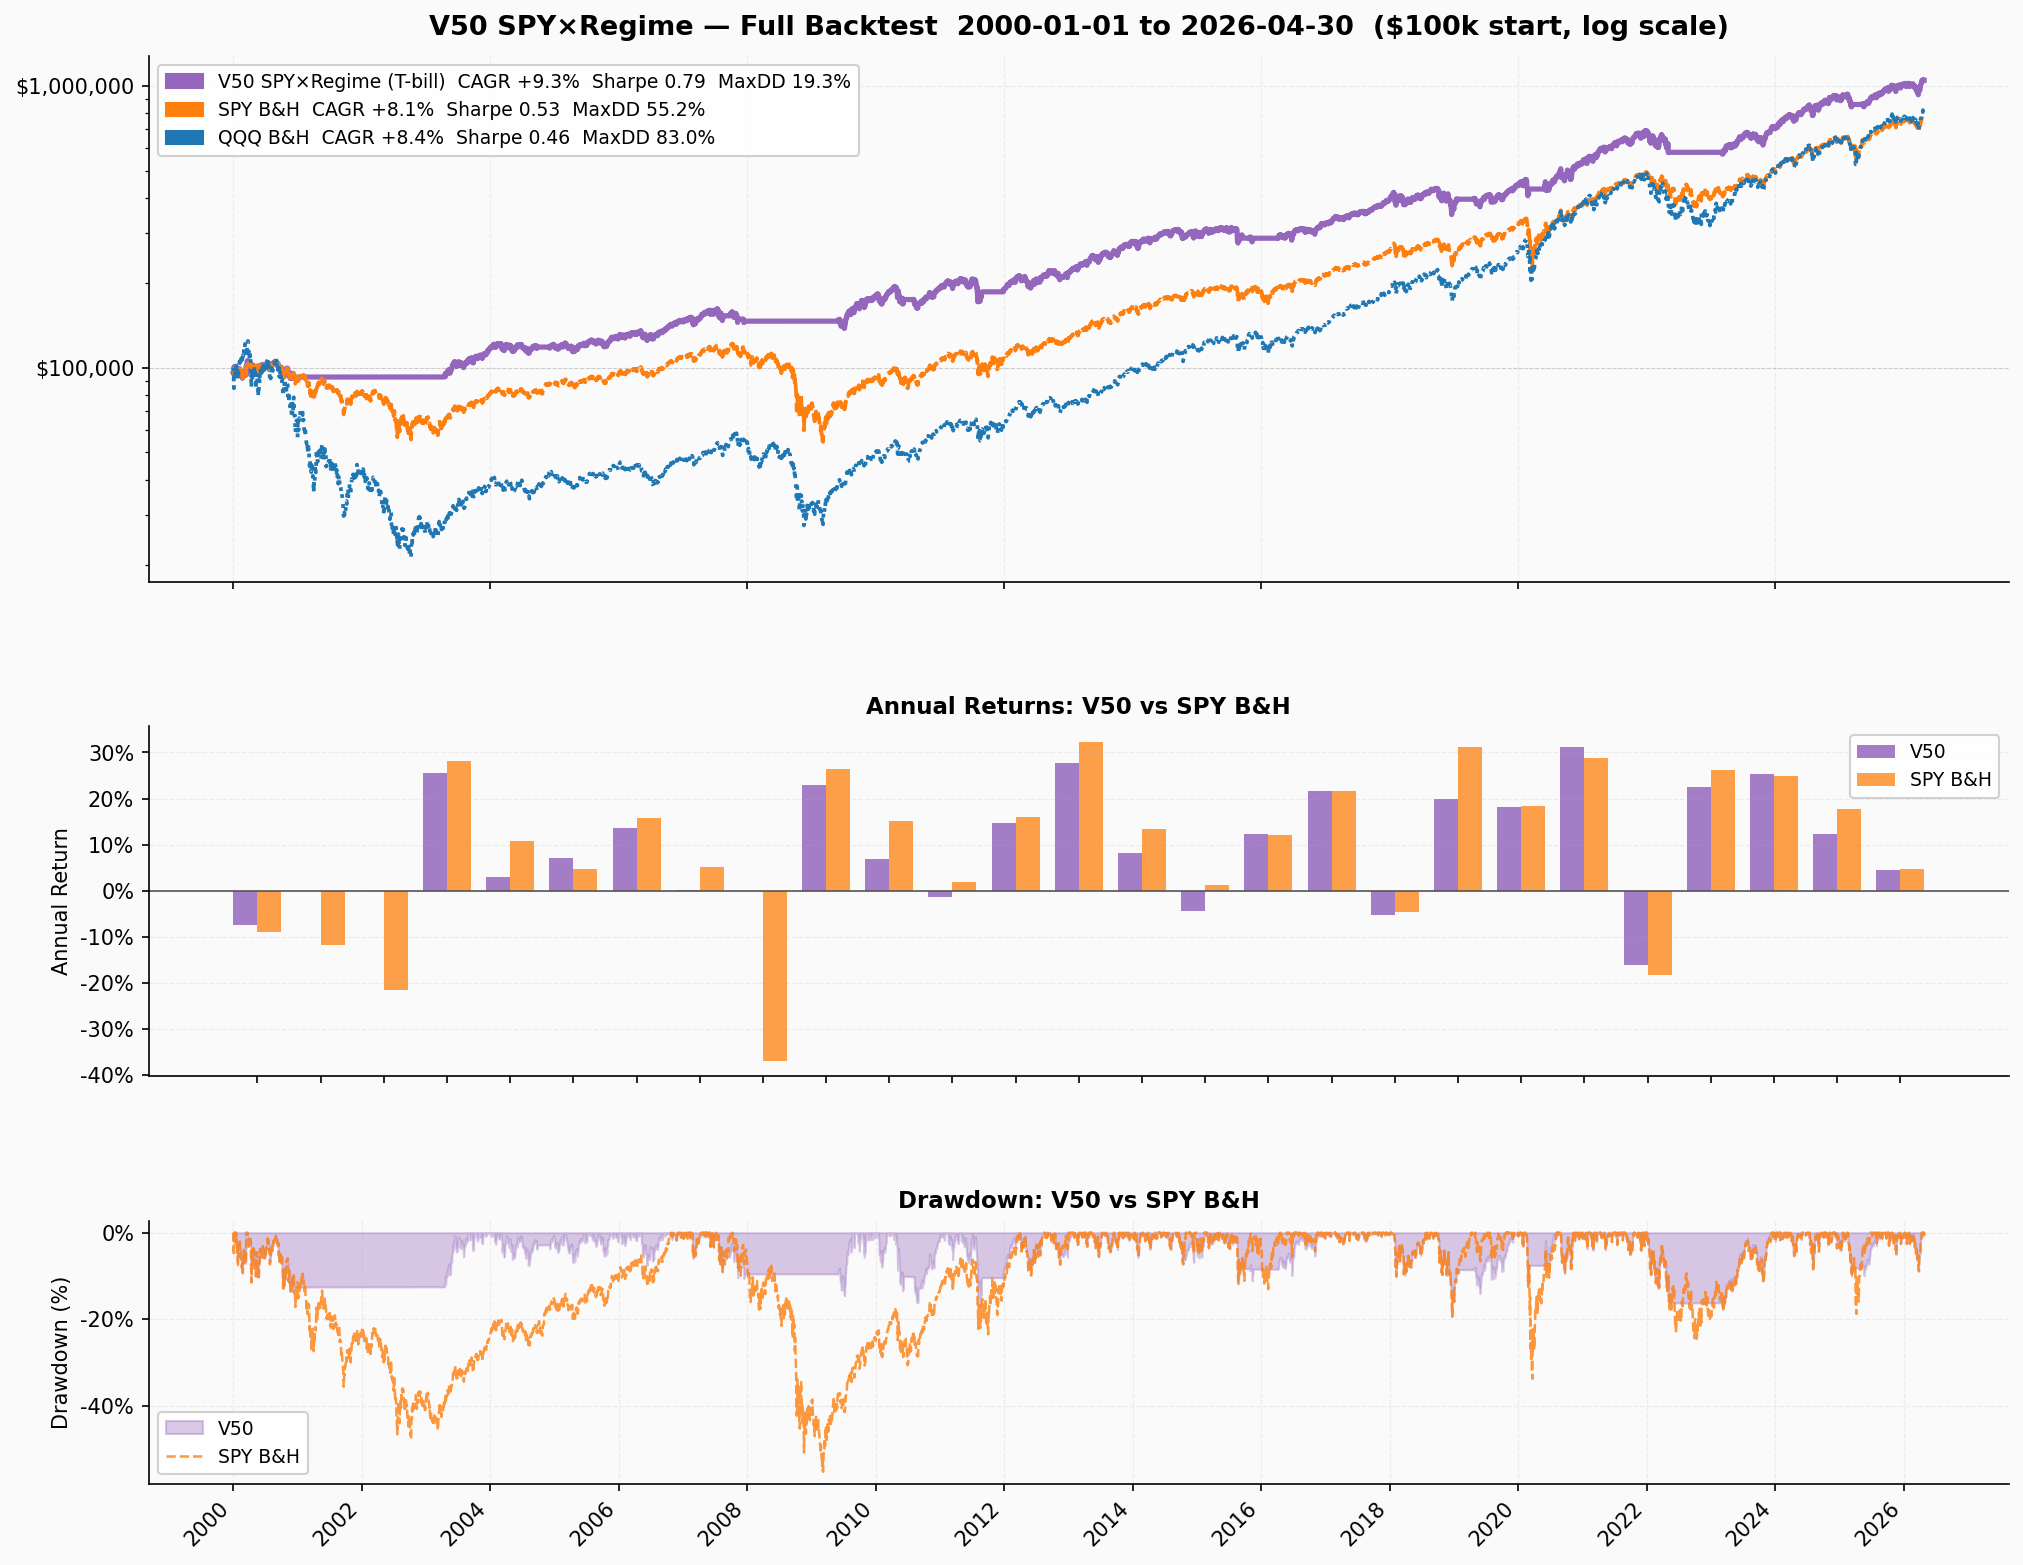
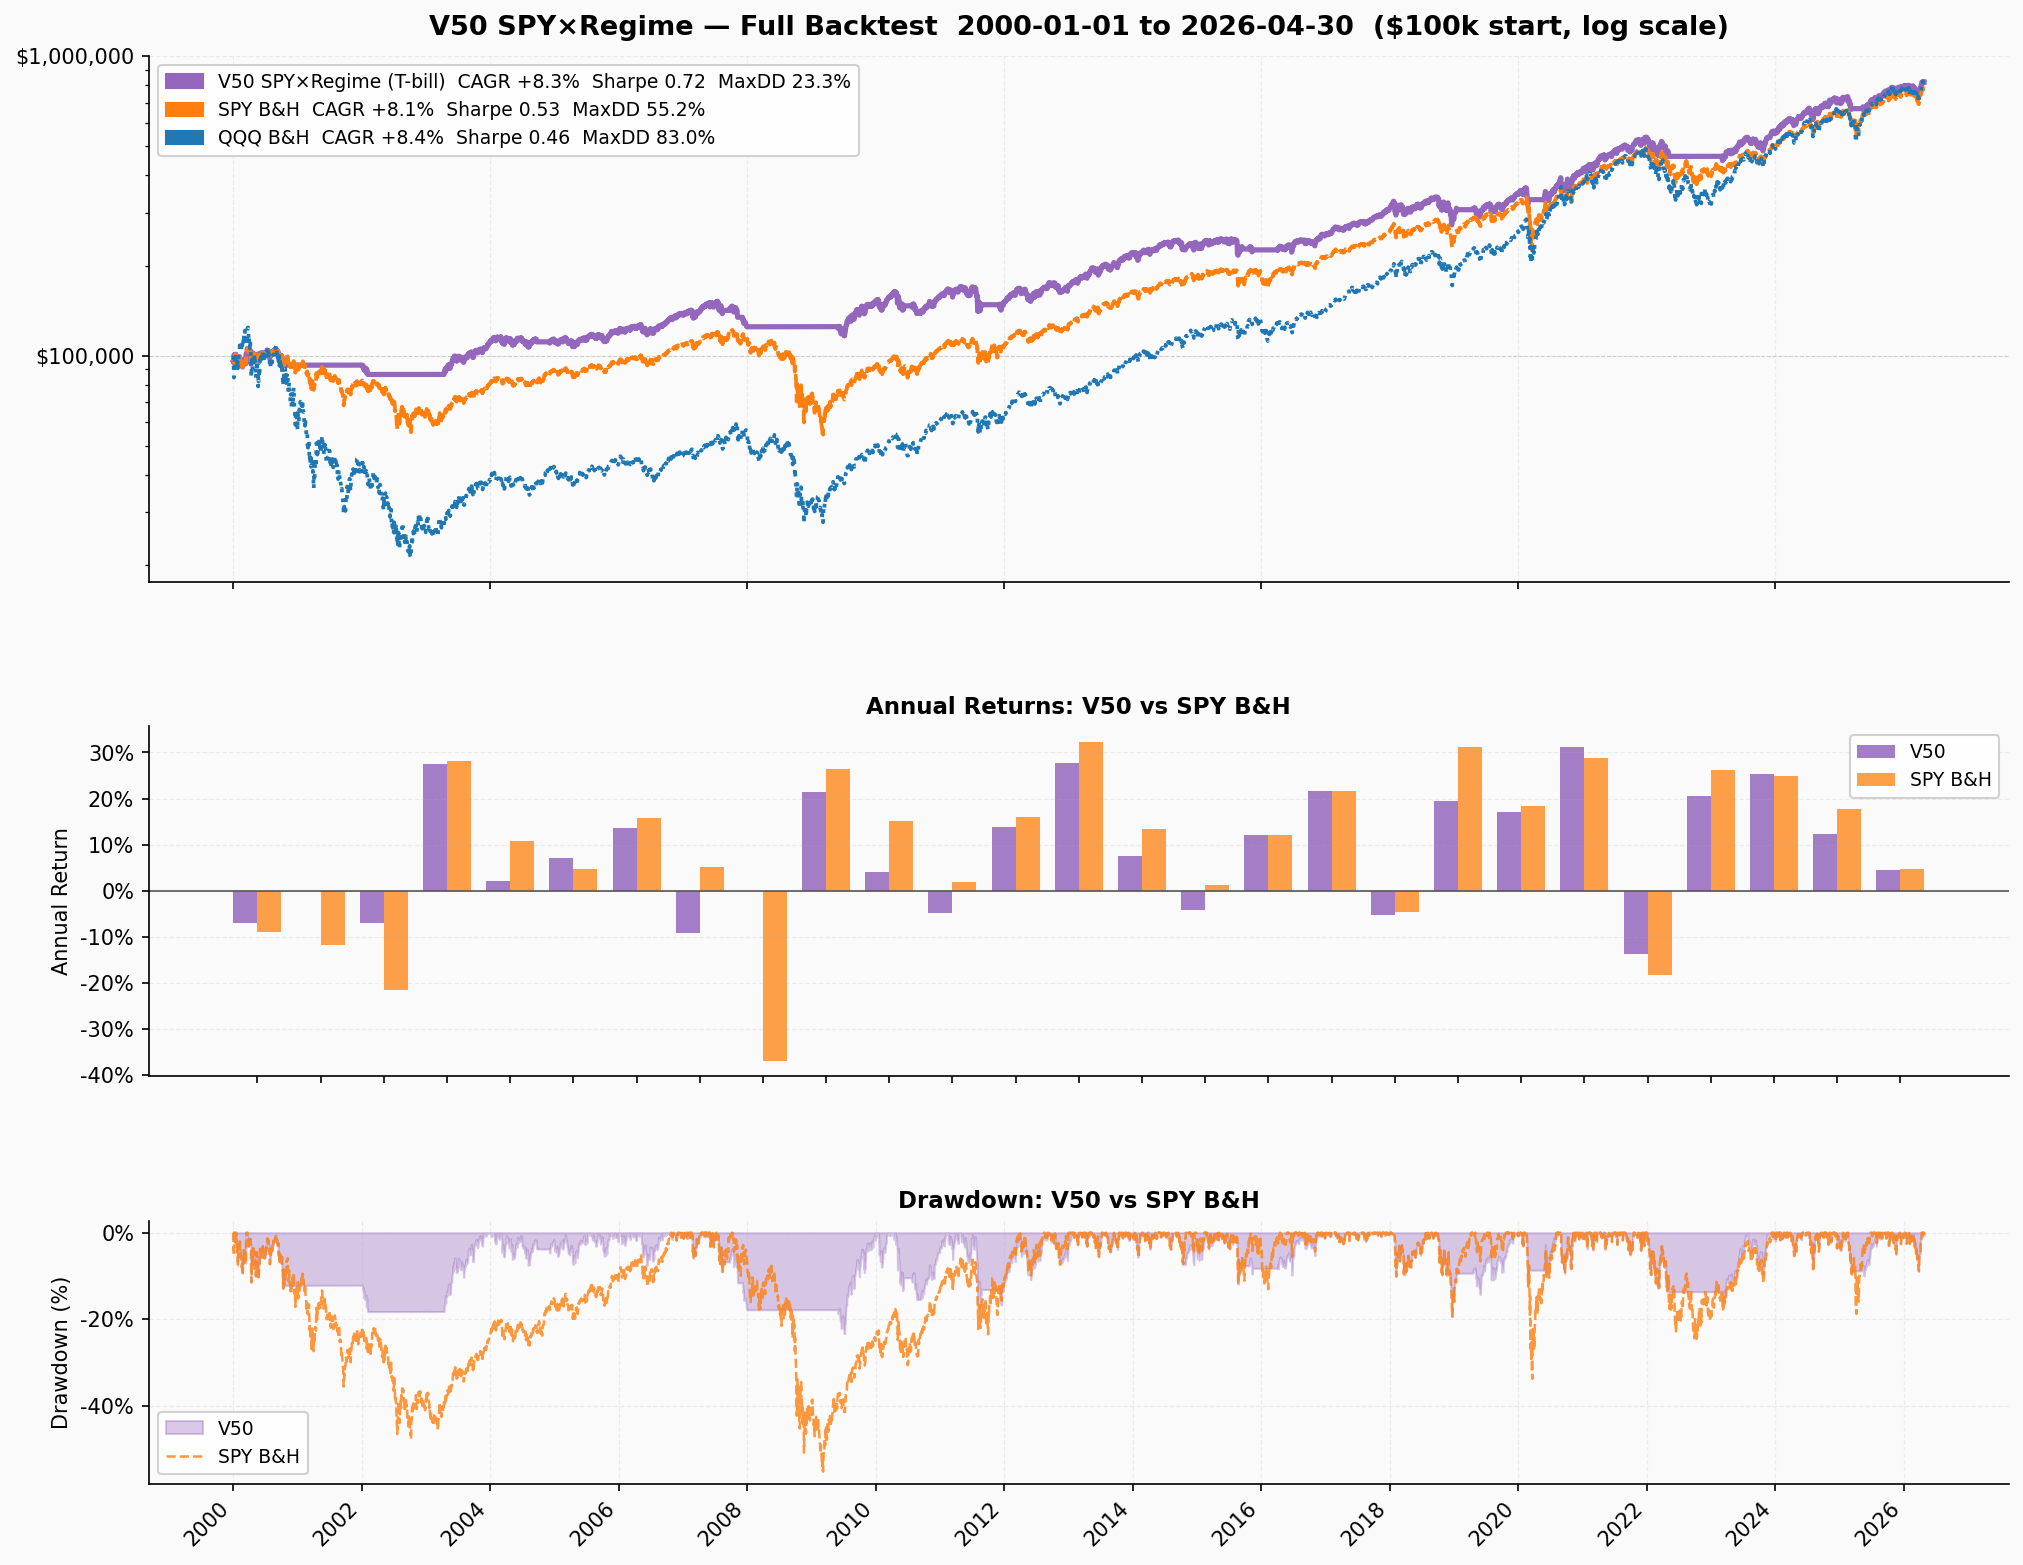
Sync docs from private repo @ cb9cc835e2283af6f49a8608487ea9dbc8acb0f6

diff --git a/alpha_summary.md b/alpha_summary.md
@@ -86,9 +86,11 @@ Same SPY regime gate, leveraged equity instrument when open, T-bills when closed
 
 ---
 
-## Current champion: V53b UPRO/SPY×Regime (VIX<17) — numbers to beat
+## V53b UPRO/SPY×Regime (VIX<17) — demoted (superseded by V51)
 
-**Promoted 2026-04-30. V50 remains the conservative option; R1_189/V39 on ice.**
+> **Superseded 2026-05-01.** See "Project Update — 2026-05-01" at the top for corrected figures. V53b numbers below used the pre-correction backtest (no swap-lag, shift-1 fill model). V51 is the current champion.
+
+**Promoted 2026-04-30, demoted 2026-05-01. V50 remains the conservative option; R1_189/V39 on ice.**
 
 **V53b = SPY regime gate + VIX-gated UPRO. No stock picking, no position sizing, no stops.**
 
@@ -119,7 +121,7 @@ When regime open: VIX < 17 → UPRO (3×), VIX ≥ 17 → SPY (1×). Regime clos
 
 **Why VIX<17 specifically:** Sweep of VIX thresholds 15–25 showed VIX<17 has the lowest MaxDD (29.2%) and best Calmar (0.59). VIX<15 has better Sharpe but much less time in UPRO. VIX<18+ starts catching choppy mid-range VIX regimes and MaxDD degrades.
 
-**Status:** Promoted to champion 2026-04-30.
+**Status:** Promoted to champion 2026-04-30. Demoted 2026-05-01 — swap-lag correction reveals VIX layer adds no value over V51.
 
 ---
 
@@ -176,17 +178,18 @@ V53b's VIX layer already handles the 2022 rates shock: VIX stayed ≥17 througho
 
 ---
 
-## Portfolio architecture (V53b — current champion)
+## Portfolio architecture (V51 — current champion)
 
 Single-strategy deployment on $100k capital:
 
 | State | Allocation | Instrument |
 |-------|-----------|------------|
-| Regime open + VIX < 17 | 100% equity | UPRO (3× S&P500) |
-| Regime open + VIX ≥ 17 | 100% equity | SPY (1× S&P500) |
+| Regime open | 100% equity | SSO (2× S&P500) |
 | Regime closed | 100% cash | T-bills (^IRX daily accrual) |
 
-No stock picking, no position sizing, no stops. Regime state changes on 5-day debounce. VIX downshift: 1-day; VIX upshift: 5-day. Execution at next-day open.
+No stock picking, no position sizing, no stops, no VIX filter. Binary: SSO or T-bills. Regime gate changes on 5-day debounce. Execution at next-day open. In simulation since 2026-05-01.
+
+**Runners:** `mixa/live/runner_eod_v51.py` (EOD ~4:20 PM ET) + `mixa/live/runner_morning.py` (morning ~9:35 AM ET).
 
 **MR and UVXY not active.** Mean reversion earned only +0.90% CAGR on its capital slice. UVXY was tested (V37a/b) and was net negative. Both remain documented below.
 
@@ -298,24 +301,24 @@ Same regime signal across all three — SMA200 gate + ^IRX adaptive reopen + 5-d
 | Variant | Instrument | CAGR | Sharpe | Calmar | MaxDD | COVID | Rates | End value |
 |---------|-----------|------|--------|--------|-------|-------|-------|-----------|
 | **V50** | SPY (1×) | +12.5% | **0.94** | **0.64** | **19.3%** | 12.4% | 16.4% | $724k |
-| **V51** | SSO (2×) | +21.5% | 0.86 | 0.59 | 36.6% | 23.4% | 31.8% | $2.6M |
-| **V52** | UPRO (3×) | +29.6% | 0.85 | 0.59 | 50.3% | 33.6% | 45.4% | **$7.9M** |
+| **V51** ★ | SSO (2×) | +20.89% | 0.84 | 0.57 | 36.6% | 23.4% | 31.8% | $2.4M |
+| **V52** | UPRO (3×) | +28.81% | 0.83 | 0.57 | 50.3% | 33.6% | 45.4% | **$7.1M** |
 | **V53** | UPRO/SSO/SPY VIX tiers | +18.6% | 0.82 | 0.54 | 34.3% | 17.3% | 28.0% | $1.8M |
-| **V53b** ★ | UPRO/SPY VIX<17 | +17.1% | 0.85 | 0.58 | 29.2% | 16.2% | 16.4% | $1.4M |
+| **V53b** | UPRO/SPY VIX<17 | +13.58% | 0.74 | 0.44 | 30.6% | 12.2% | 16.4% | $855k |
 | SPY B&H | — | +14.9% | 0.94 | 0.44 | 33.7% | 33.7% | 24.5% | $1.0M |
 | QQQ B&H | — | +19.8% | 1.04 | 0.42 | 35.1% | 28.9% | 35.2% | $2.1M |
 | SSO B&H | — | +24.9% | 0.85 | 0.42 | 59.3% | — | — | $4.2M |
 | UPRO B&H | — | +32.5% | 0.83 | 0.42 | 76.8% | — | — | $11.4M |
 
-★ V53b is the current champion.
+★ V51 is the current champion (corrected figures, MOO fill model + swap-lag). V53b demoted.
 
 Stress drawdowns (regime-gated vs B&H):
 
-| | V50 | V53b ★ | V53 | V51 | V52 | SPY B&H |
+| | V50 | V51 ★ | V53 | V53b | V52 | SPY B&H |
 |-|-----|--------|-----|-----|-----|---------|
-| GFC | 5.7% | 5.7% | 5.7% | 11.2% | 16.6% | 5.7% |
-| COVID | 12.4% | **16.2%** | 17.3% | 23.4% | 33.6% | 33.7% |
-| Rates 2022 | 16.4% | **16.4%** | 28.0% | 31.8% | 45.4% | 24.5% |
+| GFC | 5.7% | 11.2% | 5.7% | 5.7% | 16.6% | 5.7% |
+| COVID | 12.4% | 23.4% | 17.3% | 12.2% | 33.6% | 33.7% |
+| Rates 2022 | 16.4% | 31.8% | 28.0% | 16.4% | 45.4% | 24.5% |
 
 ![V50 / V51 / V52 / V53b — equity, annual returns, drawdown](v53b_compare.png)
 
@@ -325,9 +328,9 @@ Stress drawdowns (regime-gated vs B&H):
 
 **Key findings:**
 
-**V53b (champion) achieves 3× leverage alpha with near-1× drawdown.** MaxDD 29.2% is lower than SPY B&H (33.7%), while CAGR (+17.1%) beats SPY B&H (+14.9%). The VIX filter prevents holding UPRO during the most destructive phases of each bear market.
+**V51 (champion) achieves 2× leverage alpha at CAGR +20.89%, beating V53b (+13.58%) by 7pp with similar MaxDD.** V53b's VIX layer generates 122 UPRO↔SPY swaps (5.76% of days lost to T-bills during volatility spikes) with no return benefit. V51 is simpler, faster, and better.
 
-**The regime gate cuts ~⅓ off raw B&H MaxDD at every leverage level.** UPRO B&H 76.8% → V52 50.3% (-26pp). V53b achieves even better — 29.2% MaxDD on a portfolio that's 38% in UPRO — by also using VIX to shed leverage before the worst drawdowns.
+**The regime gate cuts ~⅓ off raw B&H MaxDD at every leverage level.** UPRO B&H 76.8% → V52 50.3% (-26pp). V53b's VIX layer does cut MaxDD further (30.6%) but at an extreme CAGR cost (−7pp vs V51).
 
 **V53 (3-tier UPRO/SSO/SPY) vs V53b (2-tier UPRO/SPY):** Adding SSO as a middle tier gives +1.5pp CAGR but costs +5pp MaxDD and +11.6pp Rates DD. V53b's binary approach — full UPRO or full SPY — has cleaner behavior and better crisis protection.
 
@@ -548,18 +551,18 @@ python mixa/backtest/run.py --variant 7 --fill-mode legacy       # legacy mode f
 
 ---
 
-## Strategy conclusion: V53b is the champion
+## Strategy conclusion: V51 is the champion
 
-**V53b is the current champion** (promoted 2026-04-30). V50 is the conservative alternative. V39 and R1_189 placed on ice — stock selection adds friction, not alpha. The regime gate is the dominant return driver; VIX-gated instrument selection is the second layer.
+**V51 is the current champion** (promoted 2026-05-01). V50 is the conservative alternative. V39 and R1_189 placed on ice — stock selection adds friction, not alpha. The regime gate is the dominant return driver; leverage (SSO 2×) is the second layer.
 
-| Metric | **V53b ★** | **V50** | **V51** | **V52** | SPY B&H | QQQ B&H |
+| Metric | **V51 ★** | **V50** | **V53b** | **V52** | SPY B&H | QQQ B&H |
 |--------|-----------|--------|--------|--------|---------|---------|
 | Period | 2009–2026 | 2009–2026 | 2009–2026 | 2009–2026 | — | — |
-| End value | **$1,418k** | $724k | $2.6M | **$7.9M** | $1.0M | $2.1M |
-| CAGR | +17.1% | +12.5% | +21.5% | +29.6% | +14.9% | +19.8% |
-| Sharpe | 0.85 | **0.94** | 0.86 | 0.85 | 0.94 | 1.04 |
-| MaxDD | **29.2%** | **19.3%** | 36.6% | 50.3% | 33.7% | 35.1% |
-| COVID DD | 16.2% | **12.4%** | 23.4% | 33.6% | 33.7% | 28.9% |
+| End value | **$2.4M** | $689k | $855k | **$7.1M** | $1.0M | $2.1M |
+| CAGR | **+20.89%** | +12.14% | +13.58% | +28.81% | +14.93% | +19.83% |
+| Sharpe | 0.84 | **0.92** | 0.74 | 0.83 | 0.94 | 1.04 |
+| MaxDD | 36.6% | **19.3%** | 30.6% | 50.3% | 33.7% | 35.1% |
+| COVID DD | 23.4% | **12.4%** | 12.2% | 33.6% | 33.7% | 28.9% |
 
 *All variants: 5-day regime debounce, 1-day execution lag, T-bill cash, IRA/tax-free.*
 
@@ -569,29 +572,28 @@ python mixa/backtest/run.py --variant 7 --fill-mode legacy       # legacy mode f
 
 ---
 
-## Current recommended configuration: V53b (or V50/V51/V52 by risk tolerance)
+## Current recommended configuration: V51 (or V50/V52 by risk tolerance)
 
-**V53b** ★ — champion, IRA/long-term, moderate drawdown tolerance:
-- VIX < 17 → UPRO (3×); VIX ≥ 17 → SPY (1×); regime closed → T-bills
-- 5-day regime debounce, 1-day VIX downshift (fast), 5-day VIX upshift (slow)
-- 1-day execution lag (signal at close[T] → MOO fill open[T+1])
-- *From UPRO inception (2009–2026): CAGR +17.1%, Sharpe 0.85, MaxDD 29.2%*
-- Beats SPY B&H on CAGR (+2.1pp) with lower MaxDD (-4.5pp). ~38% time UPRO, ~46% SPY, ~15% T-bills.
+**V51** ★ — champion, IRA/long-term, moderate drawdown tolerance. In simulation since 2026-05-01:
+- Regime open → 100% SSO (2× S&P500); regime closed → 100% T-bills
+- 5-day regime debounce, 1-day execution lag (signal at close[T] → MOO fill open[T+1])
+- *From common period (2009–2026): CAGR +20.89%, Sharpe 0.84, MaxDD 36.6%*
+- Beats SPY B&H on CAGR by +6pp. No swaps, no VIX layer, no execution complexity.
 
 **V50** — conservative, minimal drawdown:
 - 100% SPY when regime gate open; 100% T-bills when closed
 - *Full-period (2000–2026): CAGR +9.33%, Sharpe 0.79, MaxDD 19.3%*
 - Best Sharpe and Calmar of any variant; for investors who cannot tolerate >20% drawdown
 
-**V51** — moderate leverage:
-- Same gate; position is SSO (2× daily S&P) when open; T-bills when closed
-- *From SSO inception (2006–2026): CAGR +18.60%, Sharpe 0.80, MaxDD 36.6%*
-- Beats QQQ B&H on CAGR with roughly equal MaxDD — best risk-adjusted fixed-leverage case
-
 **V52** — aggressive:
 - Same gate; position is UPRO (3× daily S&P) when open; T-bills when closed
-- *From UPRO inception (2009–2026): CAGR +29.84%, Sharpe 0.85, MaxDD 50.3%*
+- *From UPRO inception (2009–2026): CAGR +28.81%, Sharpe 0.83, MaxDD 50.3%*
 - MaxDD 50.3% — requires high drawdown tolerance; only suitable for long time horizons
+
+**V53b** — demoted; not recommended:
+- VIX-gated UPRO/SPY: VIX < 17 → UPRO, VIX ≥ 17 → SPY; regime closed → T-bills
+- *Corrected (2009–2026): CAGR +13.58%, Sharpe 0.74, MaxDD 30.6%*
+- 122 UPRO↔SPY swaps cost 5.76% of days in T-bills. Underperforms V51 by 7pp CAGR.
 
 ---
 
